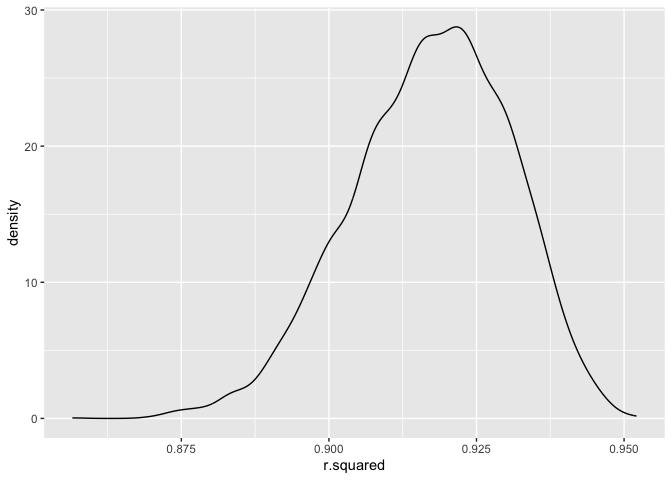
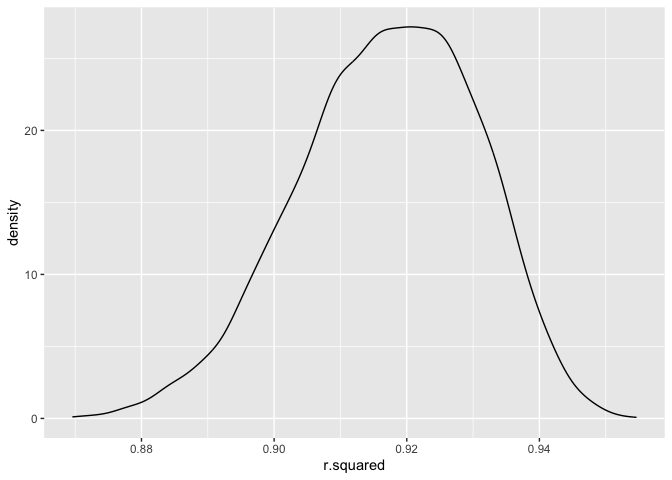
changed strategy in problem 3

diff --git a/p8105_hw6_yd2739.md b/p8105_hw6_yd2739.md
@@ -162,7 +162,7 @@ p2_result|>
   geom_density()
 ```
 
-    ## Warning: Removed 3355 rows containing non-finite values (`stat_density()`).
+    ## Warning: Removed 3399 rows containing non-finite values (`stat_density()`).
 
 ![](p8105_hw6_yd2739_files/figure-gfm/unnamed-chunk-9-1.png)<!-- -->
 
@@ -173,7 +173,7 @@ p2_result|>
 ```
 
     ##         2.5%        97.5% 
-    ## -0.009660724  0.007719075
+    ## -0.009637888  0.008190025
 
 We could see that the coefficient product’s log result is left skewed.
 There are also lots of Na in the dataset caused by negative product of
@@ -196,7 +196,7 @@ p2_result|>
 ```
 
     ##      2.5%     97.5% 
-    ## 0.8893037 0.9403244
+    ## 0.8889628 0.9404942
 
 The r^2 is less skewed and is approximately normal. We could see it is
 still slightly left skewed. The 2.5% quantile of coefficient product’s
@@ -225,13 +225,71 @@ birthweight_df = read_csv("data/birthweight.csv")|>
     ## ℹ Use `spec()` to retrieve the full column specification for this data.
     ## ℹ Specify the column types or set `show_col_types = FALSE` to quiet this message.
 
+So, first considerndata leakage, I will not include any data that
+gathered after baby birth. So babysex, bhead, blength are not included
+in our model. Also, ppbmi, ppwt, mheigth, wtgain might have
+multicollineality problem. I decide drop ppbmi and wtgain.(since these
+are all calculated by other variables). I’m not sure malform is detected
+after or before giving birth, so I also excluded it.
+
+Then I choose to fit a model and decide variables I will keep using
+their coefficient’s p-value.
+
+``` r
+tes_lm = lm(bwt ~  delwt + fincome + frace + mheight + momage + mrace + parity + pnumlbw + pnumsga + ppwt +  menarche + gaweeks + smoken, data = birthweight_df)
+summary(tes_lm)
+```
+
+    ## 
+    ## Call:
+    ## lm(formula = bwt ~ delwt + fincome + frace + mheight + momage + 
+    ##     mrace + parity + pnumlbw + pnumsga + ppwt + menarche + gaweeks + 
+    ##     smoken, data = birthweight_df)
+    ## 
+    ## Residuals:
+    ##      Min       1Q   Median       3Q      Max 
+    ## -1725.89  -256.94     9.14   275.23  1499.69 
+    ## 
+    ## Coefficients: (2 not defined because of singularities)
+    ##              Estimate Std. Error t value Pr(>|t|)    
+    ## (Intercept) -504.0971   184.5320  -2.732  0.00633 ** 
+    ## delwt          9.7528     0.6003  16.248  < 2e-16 ***
+    ## fincome        0.2628     0.2775   0.947  0.34382    
+    ## frace2      -114.6325    71.3845  -1.606  0.10838    
+    ## frace4       -83.0339    69.1452  -1.201  0.22987    
+    ## frace3       -44.3238   107.2509  -0.413  0.67943    
+    ## frace8        -6.6925   114.6373  -0.058  0.95345    
+    ## mheight       16.5941     2.7760   5.978 2.45e-09 ***
+    ## momage         0.7397     1.8899   0.391  0.69552    
+    ## mrace2      -168.4335    71.2715  -2.363  0.01816 *  
+    ## mrace4       -26.0415    69.8162  -0.373  0.70917    
+    ## mrace3       -24.2838   111.2655  -0.218  0.82724    
+    ## parity       100.7420    62.6169   1.609  0.10772    
+    ## pnumlbw            NA         NA      NA       NA    
+    ## pnumsga            NA         NA      NA       NA    
+    ## ppwt          -5.8661     0.6669  -8.796  < 2e-16 ***
+    ## menarche      -4.0686     4.4785  -0.908  0.36367    
+    ## gaweeks       52.6034     2.1065  24.972  < 2e-16 ***
+    ## smoken       -11.7913     0.8970 -13.146  < 2e-16 ***
+    ## ---
+    ## Signif. codes:  0 '***' 0.001 '**' 0.01 '*' 0.05 '.' 0.1 ' ' 1
+    ## 
+    ## Residual standard error: 421.8 on 4325 degrees of freedom
+    ## Multiple R-squared:  0.3243, Adjusted R-squared:  0.3218 
+    ## F-statistic: 129.7 on 16 and 4325 DF,  p-value: < 2.2e-16
+
+Obviously there are colinearlity in our dataset and caused Na
+coeffcient. We will exclude pnumsga, pnumlbw in our analysis. Also, we
+only choose the most significant variables. They are : delwt, mheight,
+ppwt, gaweeks, smoken.
+
 I think my model will contain mother’s weight at delivery (pounds),
 gestational age in weeks, smoken,
 
 ``` r
-proposed_lm = lm(bwt ~  delwt + gaweeks + smoken, data = birthweight_df)
+proposed_lm = lm(bwt ~  delwt + mheight + ppwt + gaweeks + smoken, data = birthweight_df)
 prediction_result = birthweight_df|>
-  subset(select = c(delwt, gaweeks, smoken, bwt))|>
+  subset(select = c(delwt, mheight, ppwt, gaweeks, smoken, bwt))|>
   modelr::add_predictions(proposed_lm)|>
   modelr::add_residuals(proposed_lm)
 ```
@@ -251,7 +309,7 @@ cv_df =
 cv_df = 
   cv_df |> 
   mutate(
-    proposed_mod  = map(train, \(df) lm(bwt ~  delwt + gaweeks + smoken, data = df)),
+    proposed_mod  = map(train, \(df) lm(bwt ~ delwt + mheight + ppwt + gaweeks + smoken, data = df)),
     length_gestation_mod  = map(train, \(df) lm(bwt ~  blength + gaweeks, data = df)),
     interact_mod  = map(train, \(df) lm(bwt ~  bhead + blength + babysex + bhead * blength + blength* babysex + bhead* babysex + bhead * blength * babysex, data = df))) |> 
   mutate(
@@ -272,7 +330,7 @@ cv_df |>
   ggplot(aes(x = model, y = rmse)) + geom_violin()
 ```
 
-![](p8105_hw6_yd2739_files/figure-gfm/unnamed-chunk-17-1.png)<!-- -->
+![](p8105_hw6_yd2739_files/figure-gfm/unnamed-chunk-18-1.png)<!-- -->
 
 We could see that the model with interaction have the lowest RMSE, which
 means it is the model with best predictivity.
